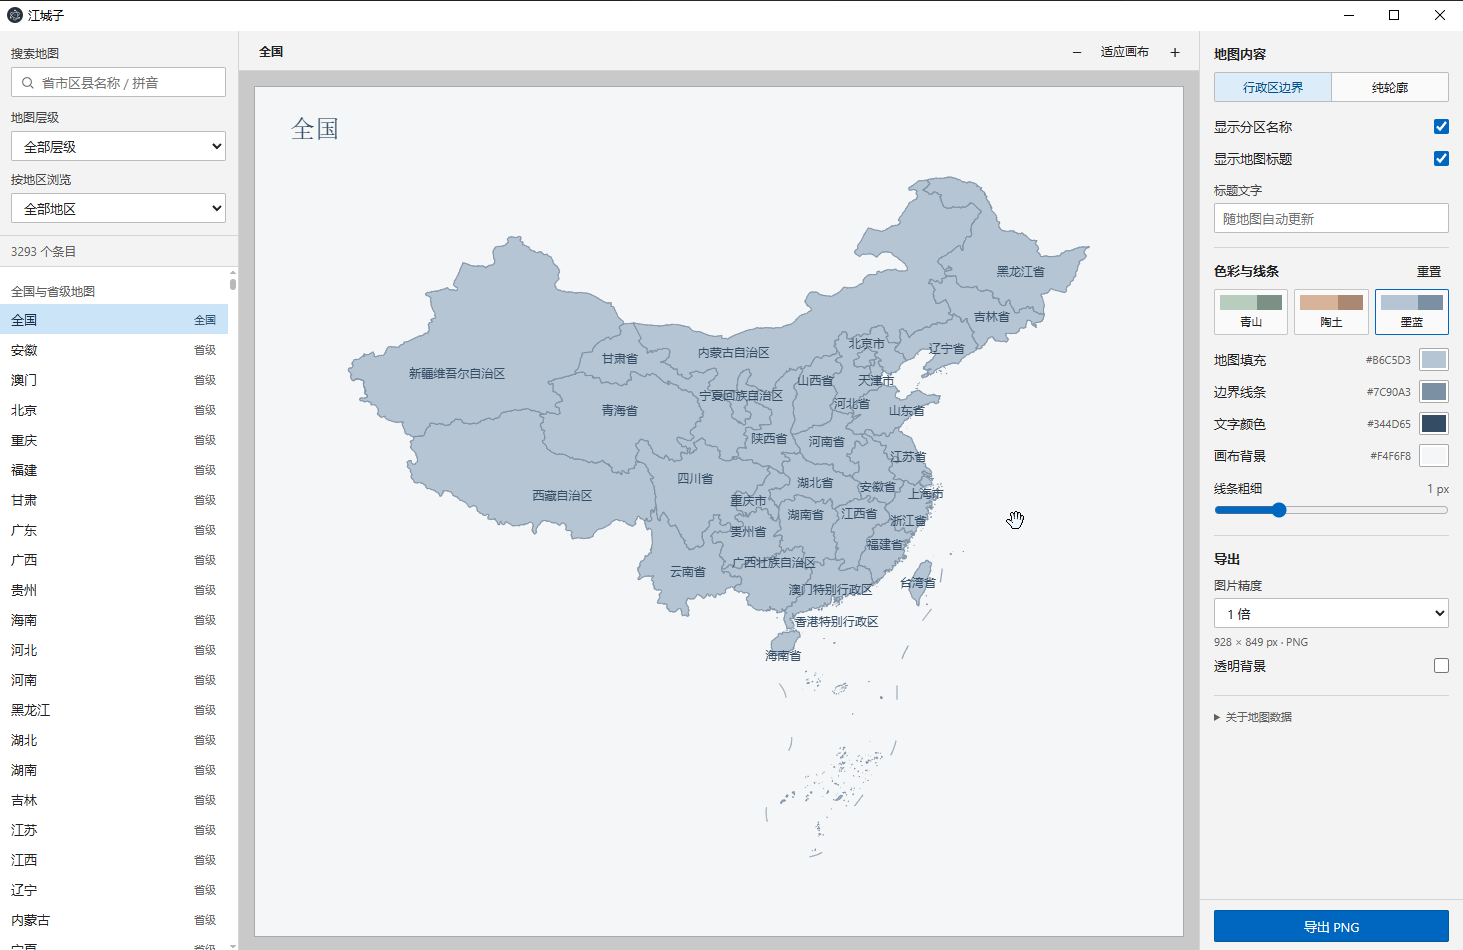
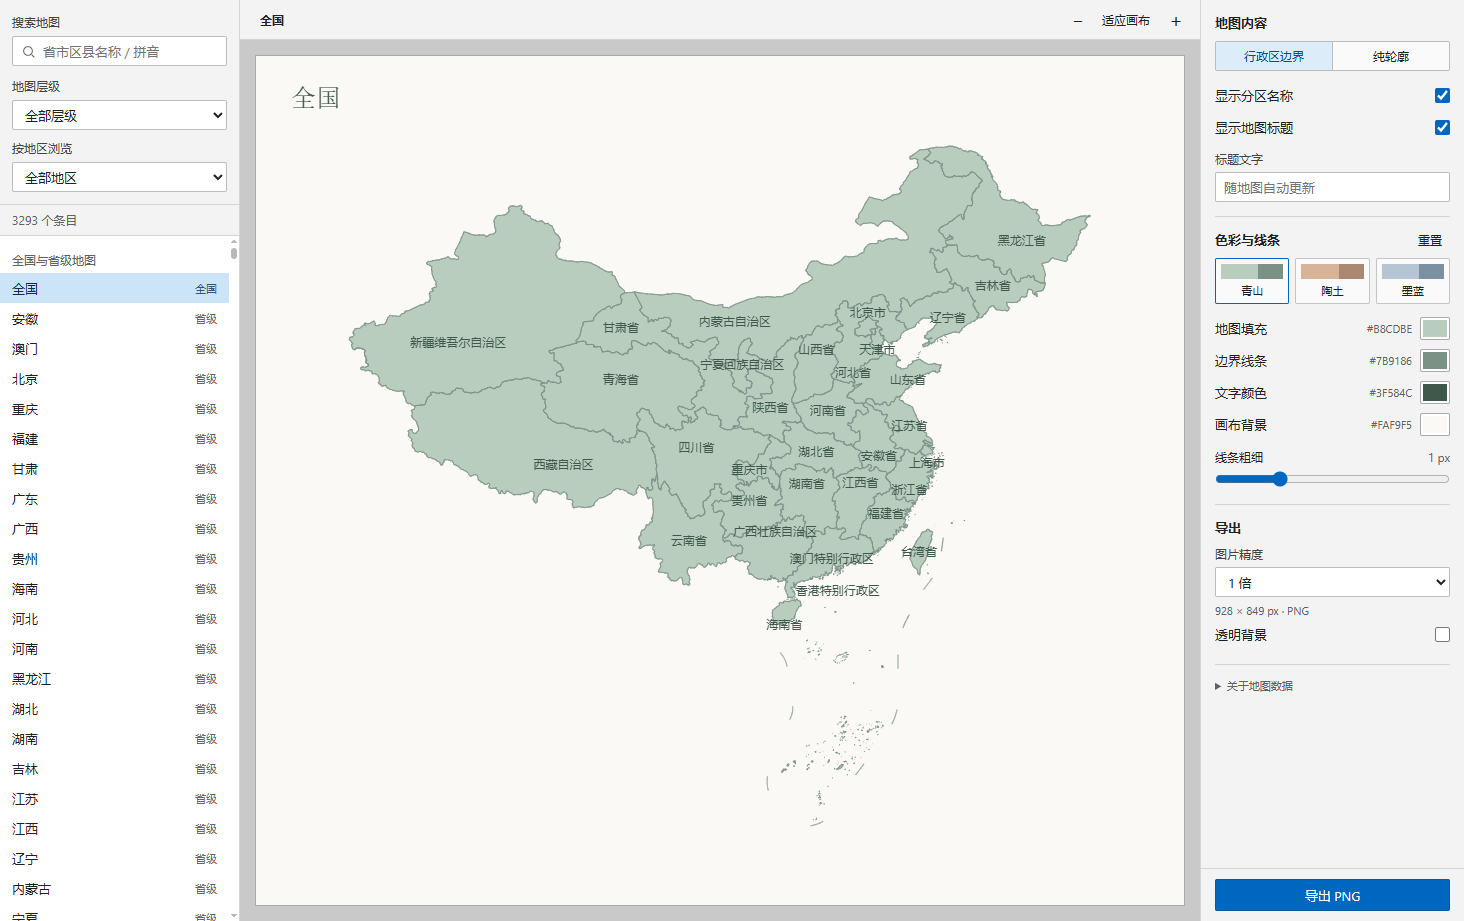
docs: replace README preview with green national map

diff --git a/README.md b/README.md
@@ -4,7 +4,7 @@
 
 内置 3,293 个地图条目，包含全国地图、34 个省级、368 个城市层及 2,890 个区县层条目。
 
-![江城子应用界面：墨蓝配色的全国行政区地图](docs/images/urbis.png)
+![江城子应用界面：青山配色的全国行政区地图](docs/images/urbis.png)
 
 ## 功能
 
